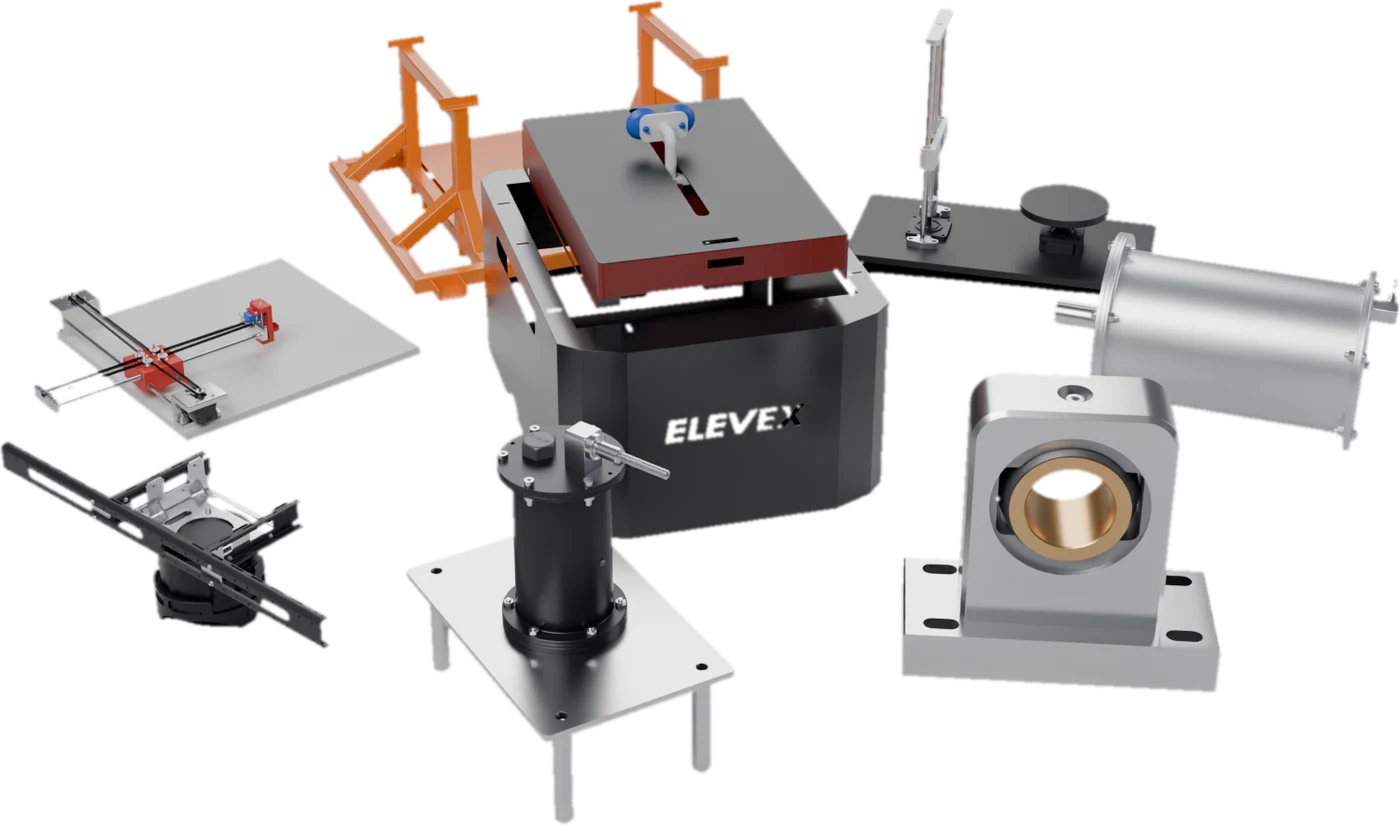
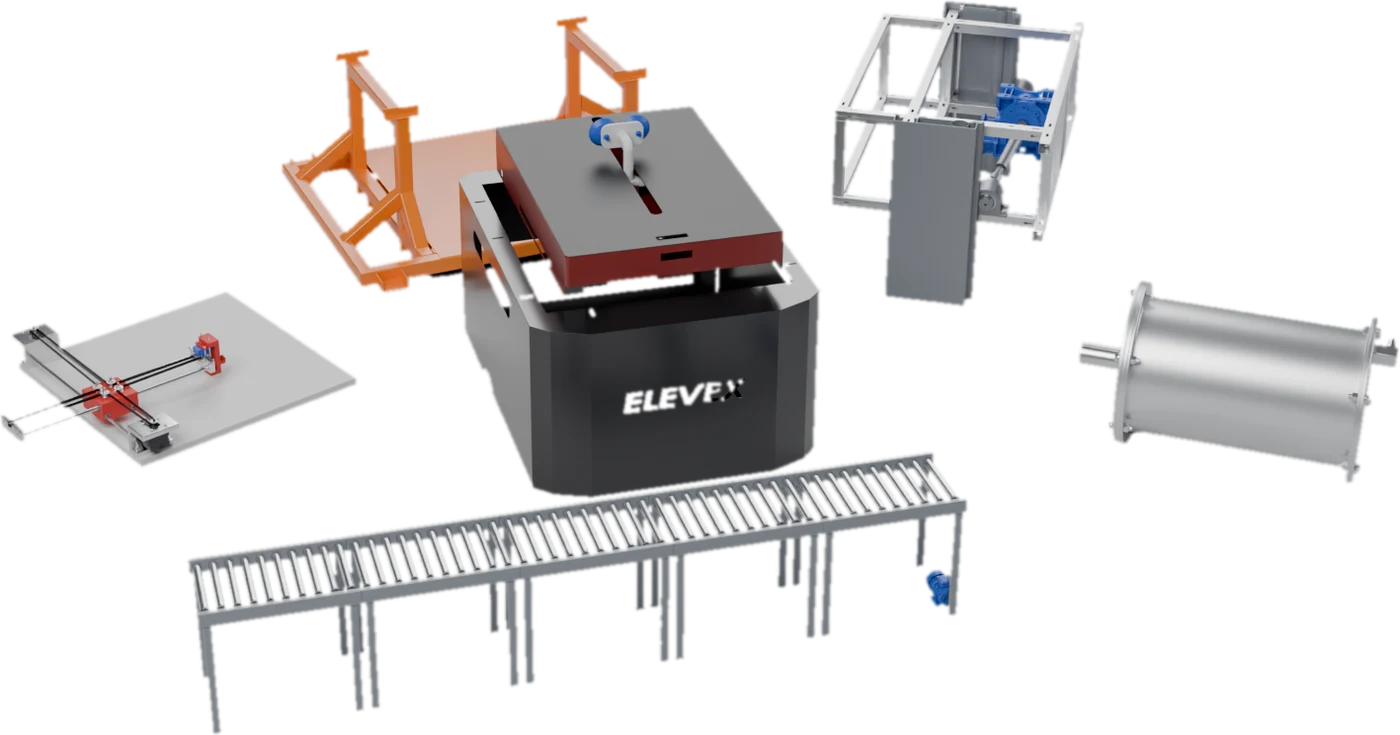
Home showcase: conveyor and rack & pinion

diff --git a/site.js b/site.js
@@ -50,7 +50,7 @@
         <div class="hero-stage">
           <div class="cross" aria-hidden="true"></div>
           <span class="dim" style="left:24px;top:22px">VIEW A · ISOMETRIC</span><span class="dim" style="right:24px;top:22px">SCALE 1:5</span>
-          <img src="media-about-hero-showcase.webp" alt="Selected projects together: warehouse robot, lifting frame, XY gantry, 3D scanner, sonar fixture, sealing pod, encoder fixture and spherical bearing" width="1400" height="825" fetchpriority="high" style="inset:8% 1% 9%;width:98%;height:83%">
+          <img src="media-about-hero-showcase.webp" alt="Selected projects together: warehouse robot, lifting frame, XY gantry, rack and pinion lifting mechanism, sealing pod and roller conveyor" width="1400" height="735" fetchpriority="high" style="inset:8% 1% 9%;width:98%;height:83%">
           <div class="cap"><span class="tg">Selected projects · MCS Group &amp; personal</span><a href="#work">See all projects →</a></div>
         </div>
       </div>
